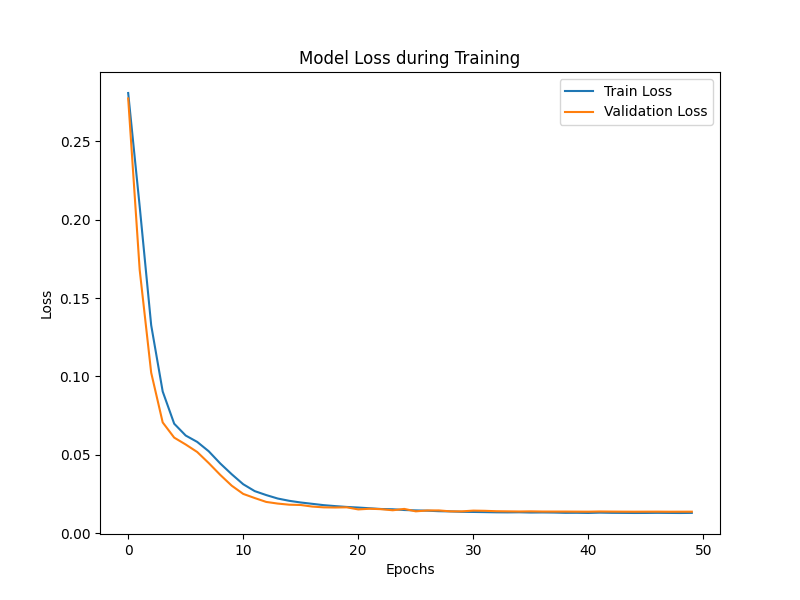
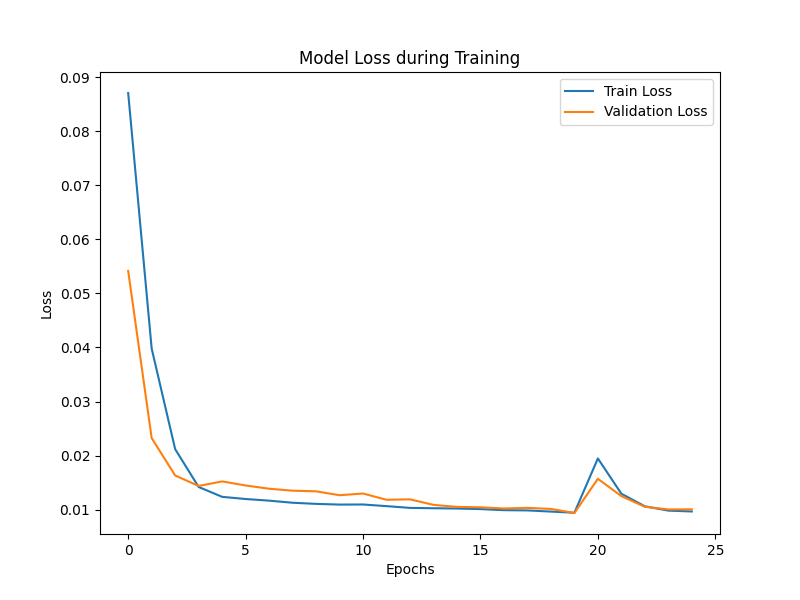
updated LSTM

diff --git a/ML_Models/experiments/scripts/LSTM.py b/ML_Models/experiments/scripts/LSTM.py
@@ -1,24 +1,57 @@
 import numpy as np
 import pandas as pd
 import tensorflow as tf
+import mlflow
+import mlflow.tensorflow
+import optuna
 from tensorflow.keras.models import Sequential
 from tensorflow.keras.layers import LSTM, Dense, Dropout, Bidirectional, Input
 from tensorflow.keras.optimizers import Adam
 from tensorflow.keras.callbacks import EarlyStopping, ReduceLROnPlateau
 from sklearn.preprocessing import MinMaxScaler
 from sklearn.metrics import mean_squared_error
+import matplotlib.pyplot as plt
+import pickle
 
+# Function: Extract Lag & Time-Based Features
+def extracting_time_series_and_lagged_features(df: pd.DataFrame) -> pd.DataFrame:
+    df = df.copy()
+    
+    # Convert Date column to datetime
+    df['Date'] = pd.to_datetime(df['Date'])
+    
+    # Create time-based features
+    df['day_of_week'] = df['Date'].dt.dayofweek  # 0 = Monday, 6 = Sunday
+    df['is_weekend'] = (df['day_of_week'] >= 5).astype(int)  # 1 if Saturday/Sunday, else 0
+
+    # Sort by date for proper lag calculations
+    df.sort_values(by=["Date", "Product Name"], inplace=True)
+
+    # Create lag features
+    df['lag_1'] = df.groupby('Product Name')['Total Quantity'].shift(1)  # Yesterday's value
+    df['lag_7'] = df.groupby('Product Name')['Total Quantity'].shift(7)  # Last week's value
+    
+    # Rolling mean features (e.g., 7-day moving average)
+    df['rolling_mean_7'] = df.groupby('Product Name')['Total Quantity'].transform(lambda x: x.rolling(7, min_periods=1).mean())
+
+    # Drop missing lag values (first few rows will be NaN)
+    df.dropna(inplace=True)
+    
+    return df
+
+# Load & Process Data
 df = pd.read_csv("C:/Users/svaru/Downloads/processed_good_transactions_20190103_20241231.csv")
 df['Date'] = pd.to_datetime(df['Date'])
+df = extracting_time_series_and_lagged_features(df)
 
-# Pivot Table
-df_pivot = df.pivot(index='Date', columns='Product Name', values='Total Quantity').fillna(0)
+# Pivot Table to get all product quantities as separate columns
+df_pivot = df.pivot(index='Date', columns='Product Name', values=['Total Quantity', 'lag_1', 'lag_7', 'rolling_mean_7', 'day_of_week', 'is_weekend']).fillna(0)
 
 # Normalize Data
 scaler = MinMaxScaler()
 scaled_data = scaler.fit_transform(df_pivot)
 
-# Create Sequences
+# Create Sequences (LSTMs require sequence data)
 def create_sequences(data, seq_length):
     X, y = [], []
     for i in range(len(data) - seq_length):
@@ -26,50 +59,111 @@ def create_sequences(data, seq_length):
         y.append(data[i+seq_length])
     return np.array(X), np.array(y)
 
-seq_length = 5  # Increased sequence length
+seq_length = 5
 X, y = create_sequences(scaled_data, seq_length)
 
-# Define Improved LSTM Model
-model = Sequential([
-    Input(shape=(seq_length, X.shape[2])),
-    Bidirectional(LSTM(100, activation='relu', return_sequences=True)),  # Bidirectional LSTM
-    Dropout(0.2),  # Dropout for Regularization
-    LSTM(100, activation='relu', return_sequences=True),
-    Dropout(0.2),
-    LSTM(50, activation='relu'),
-    Dense(50, activation='relu'),
-    Dense(X.shape[2])  # Output Layer
-])
+# Train-Val Split
+split_idx = int(0.8 * len(X))
+X_train, X_val = X[:split_idx], X[split_idx:]
+y_train, y_val = y[:split_idx], y[split_idx:]
 
-# Compile Model
-model.compile(optimizer=Adam(learning_rate=0.0005), loss='mse')
-model.summary()
+# Visualize training and validation loss
+def plot_loss(history):
+    plt.figure(figsize=(8, 6))
+    plt.plot(history.history['loss'], label='Train Loss')
+    plt.plot(history.history['val_loss'], label='Validation Loss')
+    plt.xlabel('Epochs')
+    plt.ylabel('Loss')
+    plt.legend()
+    plt.title('Model Loss during Training')
+    plt.show()
 
-# Callbacks
-early_stopping = EarlyStopping(monitor='val_loss', patience=10, restore_best_weights=True)
-reduce_lr = ReduceLROnPlateau(monitor='val_loss', factor=0.5, patience=5)
 
-# Train Model
-history = model.fit(X, y, epochs=100, batch_size=32, validation_split=0.1,
-                    callbacks=[early_stopping, reduce_lr])
+# Hyperparameter Optimization with MLflow & Optuna
+def objective(trial):
+    with mlflow.start_run():
+        lstm_units = trial.suggest_int("lstm_units", 50, 200, step=50)
+        dropout_rate = trial.suggest_float("dropout_rate", 0.1, 0.5, step=0.1)
+        learning_rate = trial.suggest_loguniform("learning_rate", 1e-4, 1e-2)
+        batch_size = trial.suggest_categorical("batch_size", [16, 32, 64])
+        num_layers = trial.suggest_int("num_layers", 1, 3)
 
-future_predictions = []
-input_seq = X[-1]  # Start with the last sequence
+        model = Sequential()
+        model.add(Input(shape=(seq_length, X.shape[2])))
 
-for _ in range(7):
-    pred = model.predict(input_seq.reshape(1, seq_length, X.shape[2]))[0]
-    future_predictions.append(pred)
-    
-    # Roll window: Remove first element & add new prediction
-    input_seq = np.roll(input_seq, shift=-1, axis=0)
-    input_seq[-1] = pred
+        for _ in range(num_layers):
+            model.add(Bidirectional(LSTM(lstm_units, activation='relu', return_sequences=True)))
+            model.add(Dropout(dropout_rate))
 
-# Convert Predictions Back to Original Scale
-future_predictions = scaler.inverse_transform(np.array(future_predictions))
+        model.add(LSTM(lstm_units // 2, activation='relu'))
+        model.add(Dense(lstm_units // 2, activation='relu'))
+        model.add(Dense(X.shape[2]))  # Multi-output: One for each product
 
-# Compare with Actual Next 7 Days (if available)
-actual_future_values = df_pivot.iloc[-7:].values  # Assuming we have actual data for the next 7 days
+        model.compile(optimizer=Adam(learning_rate=learning_rate), loss='mse')
 
-# RMSE Calculation
-rmse = np.sqrt(mean_squared_error(actual_future_values, future_predictions))
-print(f"7-Day Forecast RMSE: {rmse}")
+        # Callbacks
+        early_stopping = EarlyStopping(monitor='val_loss', patience=5, restore_best_weights=True)
+        reduce_lr = ReduceLROnPlateau(monitor='val_loss', factor=0.5, patience=3)
+
+        history = model.fit(
+            X_train, y_train,
+            epochs=50, batch_size=batch_size,
+            validation_data=(X_val, y_val),
+            callbacks=[early_stopping, reduce_lr],
+            verbose=0
+        )
+
+        plot_loss(history)
+
+        model.save("LSTM_model.h5")
+        with open('LSTM_model.pkl', 'wb') as f:
+            pickle.dump(model, f)
+
+        # Log the model with MLflow
+        mlflow.tensorflow.log_model(model, "model")
+
+
+        # Predict Next 7 Days
+        future_predictions = []
+        input_seq = X[-1]  # Last known sequence
+
+        for _ in range(7):
+            pred = model.predict(input_seq.reshape(1, seq_length, X.shape[2]))[0]
+            future_predictions.append(pred)
+            input_seq = np.roll(input_seq, shift=-1, axis=0)
+            input_seq[-1] = pred
+
+        future_predictions = scaler.inverse_transform(np.array(future_predictions))
+        actual_future_values = df_pivot.iloc[-7:].values
+
+        rmse = np.sqrt(mean_squared_error(actual_future_values, future_predictions))
+
+        # Save plot as an image
+        plot_path = "train_val_loss.png"
+        plt.figure(figsize=(8, 6))
+        plt.plot(history.history['loss'], label='Train Loss')
+        plt.plot(history.history['val_loss'], label='Validation Loss')
+        plt.xlabel('Epochs')
+        plt.ylabel('Loss')
+        plt.legend()
+        plt.title('Model Loss during Training')
+        plt.savefig(plot_path)
+
+        mlflow.log_artifact(plot_path)
+
+
+        mlflow.log_param("lstm_units", lstm_units)
+        mlflow.log_param("dropout_rate", dropout_rate)
+        mlflow.log_param("learning_rate", learning_rate)
+        mlflow.log_param("batch_size", batch_size)
+        mlflow.log_param("num_layers", num_layers)
+        mlflow.log_metric("rmse", rmse)
+
+        return rmse
+
+study = optuna.create_study(direction="minimize")
+study.optimize(objective, n_trials=20)
+
+best_params = study.best_params
+print("Best Parameters:", best_params)
+print(f"Best RMSE: {study.best_value}")
